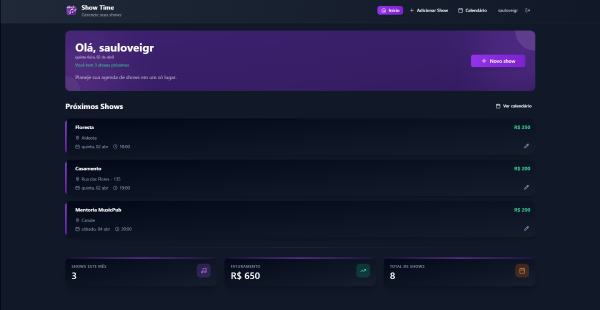
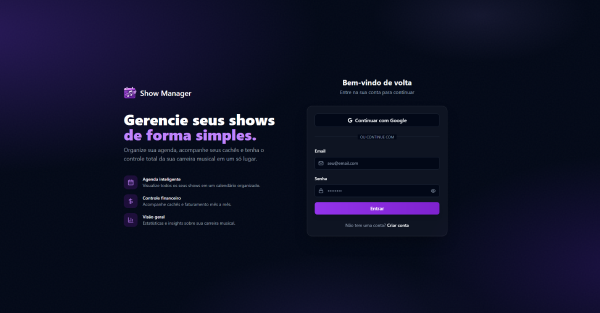
feat: update projects section and styles

diff --git a/components/RecentProjects.tsx b/components/RecentProjects.tsx
@@ -23,8 +23,7 @@ const RecentProjects = () => {
                         <PinContainer title={item.title}>
                             <div className="relative flex items-center justify-center sm:w-96 w-[80vw] overflow-hidden h-[30vh] mb-10">
                                 <div
-                                    className="relative w-full h-full overflow-hidden lg:rounded-3xl"
-                                    style={{backgroundColor: '#13162D'}}
+                                    className="relative w-full h-full overflow-hidden lg:rounded-3xl bg-dark-blue"
                                 >
                                     <img
                                         src="/bg.png"
@@ -44,11 +43,7 @@ const RecentProjects = () => {
                             </h1>
 
                             <p
-                                className="lg:text-lg lg:font-normal font-light text-sm line-clamp-2"
-                                style={{
-                                    color: '#BEC1DD',
-                                    margin: '1vh 0',
-                                }}
+                                className="lg:text-md lg:font-normal font-light text-sm line-clamp-2 text-white-100 my-[1vh]"
                             >
                                 {item.description}
                             </p>
@@ -59,8 +54,7 @@ const RecentProjects = () => {
                                         Check Live Site
                                     </p>
                                     <FaLocationArrow
-                                        className="ms-3"
-                                        color="#CBACF9"
+                                        className="ms-3 text-purple"
                                     />
                                 </div>
                             </div>

diff --git a/components/ui/Pin.tsx b/components/ui/Pin.tsx
@@ -38,17 +38,13 @@ export const PinContainer = ({
       onMouseLeave={onMouseLeave}
     >
       <div
-        style={{
-          perspective: "1000px",
-          transform: "rotateX(70deg) translateZ(0deg)",
-        }}
-        className="absolute left-1/2 top-1/2 ml-[0.09375rem] mt-4 -translate-x-1/2 -translate-y-1/2"
+        className="absolute left-1/2 top-1/2 ml-[0.09375rem] mt-4 -translate-x-1/2 -translate-y-1/2 [perspective:1000px] [transform:rotateX(70deg)_translateZ(0deg)]"
       >
         <div
           style={{
             transform: transform,
           }}
-          className="absolute left-1/2 p-4 top-1/2  flex justify-start items-start  rounded-2xl  shadow-[0_8px_16px_rgb(0_0_0/0.4)] border border-white/[0.1] group-hover/pin:border-white/[0.2] transition duration-700 overflow-hidden"
+          className="absolute left-1/2 p-4 top-1/2 flex justify-start items-start rounded-2xl shadow-[0_8px_16px_rgb(0_0_0/0.4)] border border-white/[0.1] group-hover/pin:border-white/[0.2] transition duration-700 overflow-hidden"
         >
           <div className={cn(" relative z-50 ", className)}>{children}</div>
         </div>
@@ -83,11 +79,7 @@ export const PinPerspective = ({
         </div>
 
         <div
-          style={{
-            perspective: "1000px",
-            transform: "rotateX(70deg) translateZ(0)",
-          }}
-          className="absolute left-1/2 top-1/2 ml-[0.09375rem] mt-4 -translate-x-1/2 -translate-y-1/2"
+          className="absolute left-1/2 top-1/2 ml-[0.09375rem] mt-4 -translate-x-1/2 -translate-y-1/2 [perspective:1000px] [transform:rotateX(70deg)_translateZ(0)]"
         >
           <>
             <motion.div

diff --git a/data/index.ts b/data/index.ts
@@ -71,6 +71,13 @@ export const gridItems = [
 
 export const projects = [
     {
+        title: 'Crypto Dashboard',
+        description:
+            'A responsive Crypto Dashboard built with Next.js, Typescript, Tailwind CSS, TanStack Query, Zustand, etc.',
+        img: '/project-2.png',
+        link: 'https://dashcrypto.vercel.app/',
+    },
+    {
         title: 'Show Time',
         description:
             'A responsive show platform, built with React, TypeScript, Tailwind CSS, Supabase, etc.',
@@ -78,25 +85,11 @@ export const projects = [
         link: 'https://music-show-eight.vercel.app/',
     },
     {
-        title: 'Form',
+        title: 'Portfolio',
         description:
-            'A responsive form built with React, Formik, Styled Components and Material-UI.',
-        img: '/project-2.png',
-        link: 'https://sauloveigr.github.io/form/',
-    },
-    {
-        title: 'Spirited Away',
-        description:
-            'A responsive landing page built with React and Styled Components.',
+            'A responsive Portfolio built with Next.js, Tailwind CSS and Typescript',
         img: '/project-3.png',
-        link: 'https://sauloveigr.github.io/studio-ghibli-react/',
-    },
-    {
-        title: 'Figma Land',
-        description:
-            'A landing page built with React, Styled Components and React Router DOM.',
-        img: '/project-4.png',
-        link: 'https://sauloveigr.github.io/landing-page-react/',
+        link: 'https://saulo-veiga.vercel.app/',
     },
 ];
 

diff --git a/components/Approach.tsx b/components/Approach.tsx
@@ -76,12 +76,7 @@ const Card = ({
       onMouseEnter={() => setHovered(true)}
       onMouseLeave={() => setHovered(false)}
       className="border border-black/[0.2] group/canvas-card flex items-center justify-center
-       dark:border-white/[0.2]  max-w-sm w-full mx-auto p-4 relative lg:h-[35rem] rounded-3xl "
-      style={{
-        background: "rgb(4,7,29)",
-        backgroundColor:
-          "linear-gradient(90deg, rgba(4,7,29,1) 0%, rgba(12,14,35,1) 100%)",
-      }}
+       dark:border-white/[0.2]  max-w-sm w-full mx-auto p-4 relative lg:h-[35rem] rounded-3xl bg-gradient-dark"
     >
       <Icon className="absolute h-10 w-10 -top-3 -left-3 dark:text-white text-black opacity-30" />
       <Icon className="absolute h-10 w-10 -bottom-3 -left-3 dark:text-white text-black opacity-30" />
@@ -117,8 +112,7 @@ const Card = ({
         <p
           className="text-sm opacity-0 group-hover/canvas-card:opacity-100
          relative z-10 mt-4 group-hover/canvas-card:text-white text-center
-         group-hover/canvas-card:-translate-y-2 transition duration-200"
-          style={{ color: "#E4ECFF" }}
+         group-hover/canvas-card:-translate-y-2 transition duration-200 text-blue-100"
         >
           {des}
         </p>

diff --git a/components/ui/FloatingNavbar.tsx b/components/ui/FloatingNavbar.tsx
@@ -55,15 +55,9 @@ export const FloatingNav = ({
           duration: 0.2,
         }}
         className={cn(
-          "flex max-w-fit md:min-w-[70vw] lg:min-w-fit fixed z-[5000] top-10 inset-x-0 mx-auto px-10 py-5 rounded-lg border border-black/.1 shadow-[0px_2px_3px_-1px_rgba(0,0,0,0.1),0px_1px_0px_0px_rgba(25,28,33,0.02),0px_0px_0px_1px_rgba(25,28,33,0.08)] items-center justify-center space-x-4",
+          "flex max-w-fit md:min-w-[70vw] lg:min-w-fit fixed z-[5000] top-10 inset-x-0 mx-auto px-10 py-5 rounded-xl border border-black-300 shadow-[0px_2px_3px_-1px_rgba(0,0,0,0.1),0px_1px_0px_0px_rgba(25,28,33,0.02),0px_0px_0px_1px_rgba(25,28,33,0.08)] items-center justify-center space-x-4 backdrop-blur-[16px] backdrop-saturate-[180%] bg-black-200",
           className
         )}
-        style={{
-          backdropFilter: "blur(16px) saturate(180%)",
-          backgroundColor: "rgba(17, 25, 40, 0.75)",
-          borderRadius: "12px",
-          border: "1px solid rgba(255, 255, 255, 0.125)",
-        }}
       >
         {navItems.map((navItem: any, idx: number) => (
           <Link

diff --git a/components/ui/BentoGrid.tsx b/components/ui/BentoGrid.tsx
@@ -71,14 +71,9 @@ export const BentoGridItem = ({
   return (
     <div
       className={cn(
-        "row-span-1 relative overflow-hidden rounded-3xl border border-white/[0.1] group/bento hover:shadow-xl transition duration-200 shadow-input dark:shadow-none justify-between flex flex-col space-y-4",
+        "row-span-1 relative overflow-hidden rounded-3xl border border-white/[0.1] group/bento hover:shadow-xl transition duration-200 shadow-input dark:shadow-none justify-between flex flex-col space-y-4 bg-gradient-dark",
         className
       )}
-      style={{
-        background: "rgb(4,7,29)",
-        backgroundColor:
-          "linear-gradient(90deg, rgba(4,7,29,1) 0%, rgba(12,14,35,1) 100%)",
-      }}
     >
       <div className={`${id === 6 && "flex justify-center"} h-full`}>
         <div className="w-full h-full absolute">

diff --git a/tailwind.config.ts b/tailwind.config.ts
@@ -41,7 +41,16 @@ const config = {
         blue: {
           "100": "#E4ECFF",
         },
-        purple: "#CBACF9",
+        purple: {
+          DEFAULT: "#CBACF9",
+          100: "#BEC1DD",
+        },
+        "dark-blue": {
+          DEFAULT: "#13162D",
+          100: "#04071D",
+          200: "#0C0E23",
+          300: "#10132E",
+        },
         border: "hsl(var(--border))",
         input: "hsl(var(--input))",
         ring: "hsl(var(--ring))",
@@ -80,6 +89,9 @@ const config = {
         lg: "var(--radius)",
         md: "calc(var(--radius) - 2px)",
         sm: "calc(var(--radius) - 4px)",
+      },
+      backgroundImage: {
+        "gradient-dark": "linear-gradient(90deg, rgba(4,7,29,1) 0%, rgba(12,14,35,1) 100%)",
       },
       keyframes: {
         "accordion-down": {

diff --git a/components/Experience.tsx b/components/Experience.tsx
@@ -16,13 +16,7 @@ const Experience = () => {
             key={index}
             duration={Math.floor(Math.random() * 10000) + 10000}
             borderRadius="1.75rem"
-            style={{
-              background: "rgb(4,7,29)",
-              backgroundColor:
-                "linear-gradient(90deg, rgba(4,7,29,1) 0%, rgba(12,14,35,1) 100%)",
-              borderRadius: `calc(1.75rem* 0.96)`,
-            }}
-            className="flex-1 text-black dark:text-white border-neutral-200 dark:border-slate-800"
+            className="flex-1 text-black dark:text-white border-neutral-200 dark:border-slate-800 bg-gradient-dark"
           >
             <div className="flex lg:flex-row flex-col lg:items-center p-3 py-6 md:p-5 lg:p-10 gap-2">
               <img

diff --git a/components/ui/MovingBorders.tsx b/components/ui/MovingBorders.tsx
@@ -41,7 +41,7 @@ export function Button({
       {...otherProps}
     >
       <div
-        className="absolute inset-0 rounde-[1.75rem]"
+        className="absolute inset-0"
         style={{ borderRadius: `calc(${borderRadius} * 0.96)` }}
       >
         <MovingBorder duration={duration} rx="30%" ry="30%">
@@ -124,11 +124,8 @@ export const MovingBorder = ({
         />
       </svg>
       <motion.div
+        className="absolute top-0 left-0 inline-block"
         style={{
-          position: "absolute",
-          top: 0,
-          left: 0,
-          display: "inline-block",
           transform,
         }}
       >

diff --git a/components/ui/InfiniteCards.tsx b/components/ui/InfiniteCards.tsx
@@ -89,12 +89,7 @@ export const InfiniteMovingCards = ({
         {items.map((item, idx) => (
           <li
             className="w-[90vw] max-w-full relative rounded-2xl border border-b-0
-             flex-shrink-0 border-slate-800 p-5 md:p-16 md:w-[60vw]"
-            style={{
-              background: "rgb(4,7,29)",
-              backgroundColor:
-                "linear-gradient(90deg, rgba(4,7,29,1) 0%, rgba(12,14,35,1) 100%)",
-            }}
+             flex-shrink-0 border-slate-800 p-5 md:p-16 md:w-[60vw] bg-gradient-dark"
             key={idx}
           >
             <blockquote>

diff --git a/components/ui/HoverBorder.tsx b/components/ui/HoverBorder.tsx
@@ -77,14 +77,8 @@ export function HoverBorderGradient({
       </div>
       <motion.div
         className={cn(
-          "flex-none inset-0 overflow-hidden absolute z-0 rounded-[inherit]"
+          "flex-none inset-0 overflow-hidden absolute z-0 rounded-[inherit] blur-[2px] w-full h-full"
         )}
-        style={{
-          filter: "blur(2px)",
-          position: "absolute",
-          width: "100%",
-          height: "100%",
-        }}
         initial={{ background: movingMap[direction] }}
         animate={{
           background: hovered
